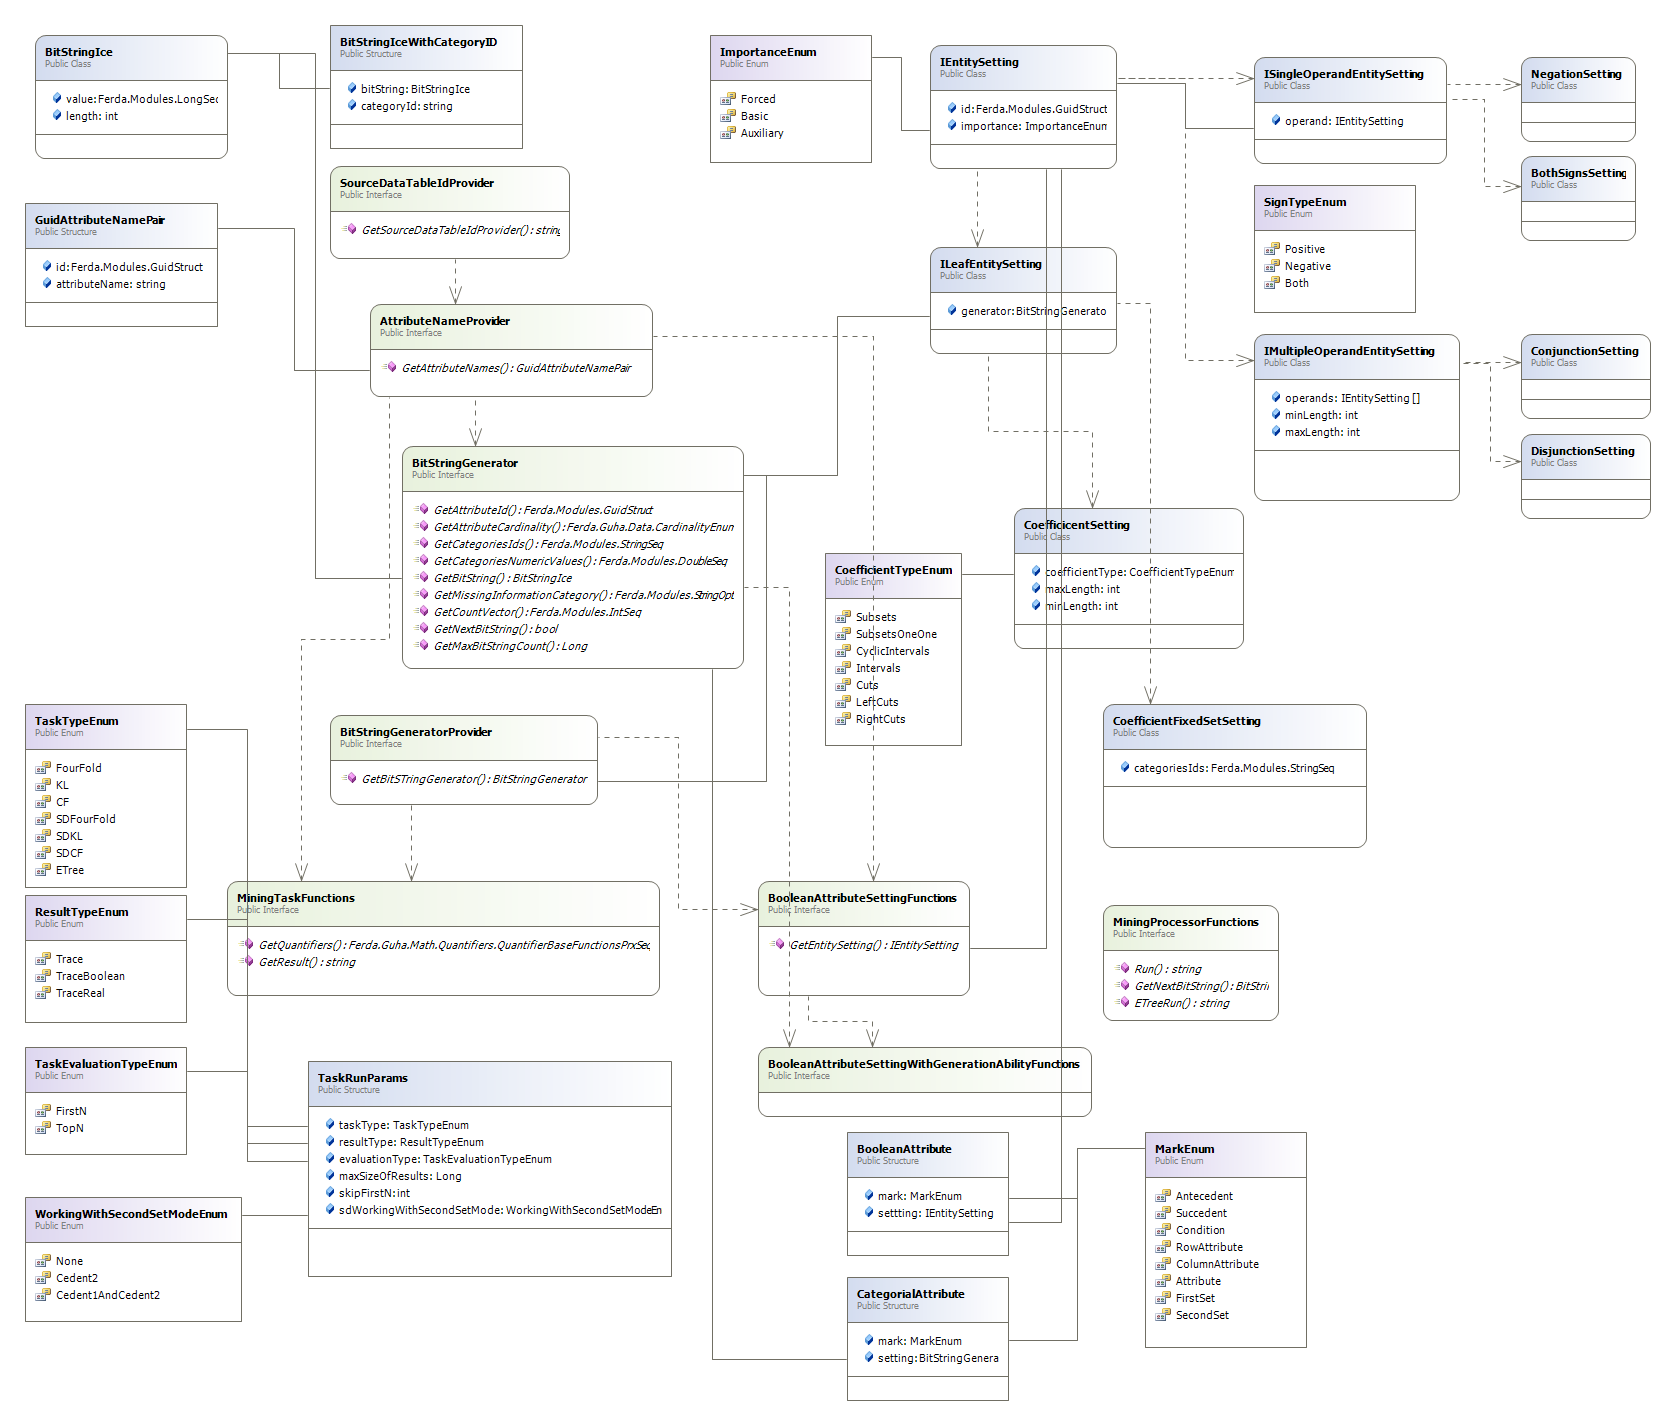
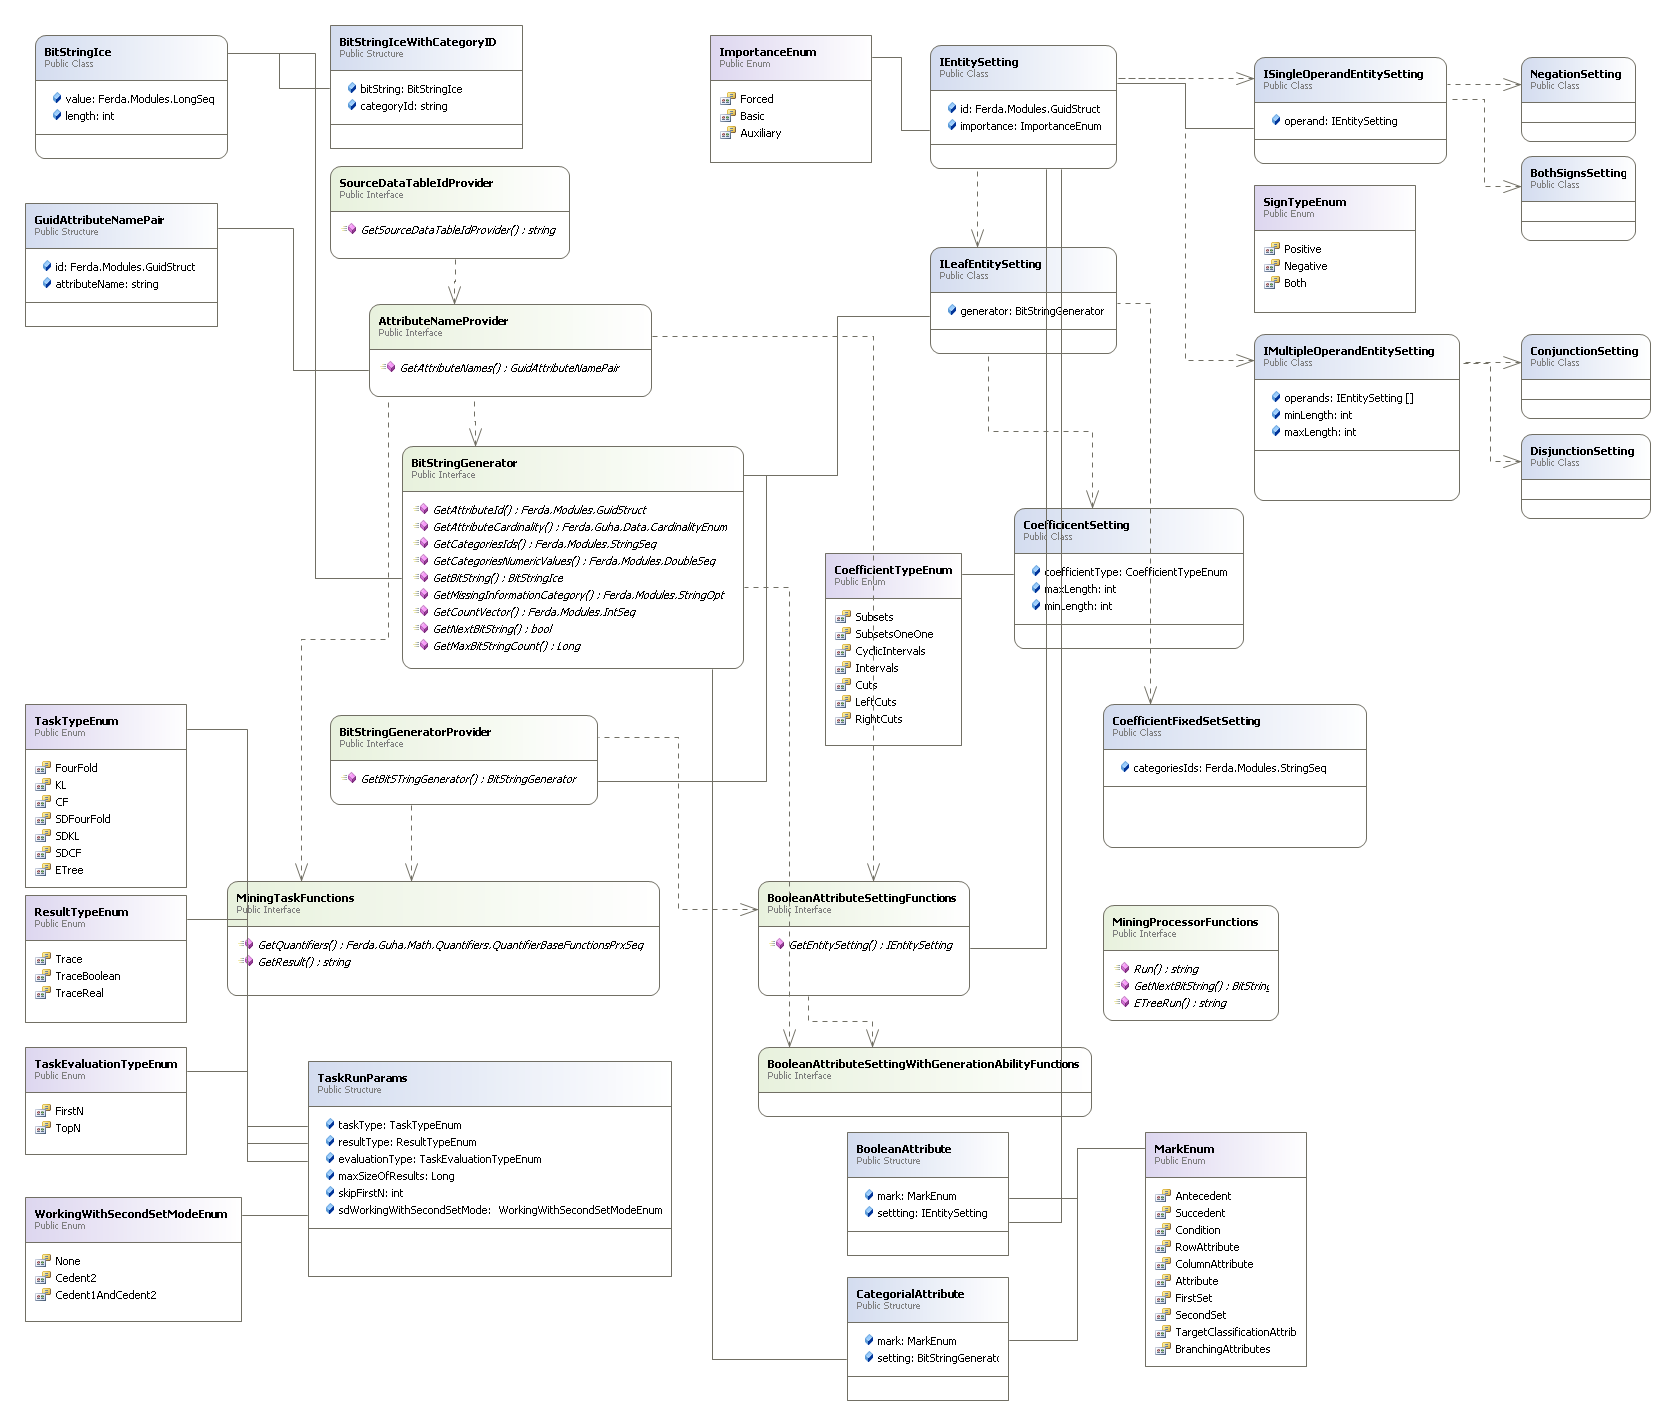
ETree miner progress - the box works, MiningProcessor interface has a new function for running ETree tasks, there is some work done on the ETreeMiningProcessor, but still incomplete.

diff --git a/ferda/src/Modules/BoxModulesServices/GuhaMining/Tasks/ETree/Functions.cs b/ferda/src/Modules/BoxModulesServices/GuhaMining/Tasks/ETree/Functions.cs
@@ -89,6 +89,17 @@ namespace Ferda.Modules.Boxes.GuhaMining.Tasks.ETree
             }
         }
 
+        /// <summary>
+        /// Number of branching categories
+        /// </summary>
+        public int NoBranchingCategories
+        {
+            get
+            {
+                return _boxModule.GetPropertyInt(SockNoBranchingCategories);
+            }
+        }
+
         #endregion
 
         /// <summary>
@@ -122,6 +133,11 @@ namespace Ferda.Modules.Boxes.GuhaMining.Tasks.ETree
         /// Name of the socket defining maximal tree depth
         /// </summary>
         public const string SockMaximalTreeDepth = "MaximalTreeDepth";
+
+        /// <summary>
+        /// Name of the socket defining number of branching categories
+        /// </summary>
+        public const string SockNoBranchingCategories = "NoBranchingCategories";
 
         #region MiningTaskFunctions overrides
 
@@ -271,8 +287,14 @@ namespace Ferda.Modules.Boxes.GuhaMining.Tasks.ETree
                 Common.GetBitStringGeneratorProviderPrx(_boxModule);
 
             //retrieving and checking the quantifiers
+            //because of other name of the socket that contain quantifiers,
+            //we cannot use Common.GetQuantifierBaseFunctions
             List<QuantifierBaseFunctionsPrx> quantifiers = 
-                Common.GetQuantifierBaseFunctions(_boxModule, true);
+                SocketConnections.GetPrxs<QuantifierBaseFunctionsPrx>(
+                _boxModule, 
+                SockQuantifiers,
+                QuantifierBaseFunctionsPrxHelper.checkedCast,
+                true, true);
             if (quantifiers == null || quantifiers.Count == 0)
             {
                 throw Exceptions.BadValueError(null, _boxModule.StringIceIdentity,
@@ -289,8 +311,31 @@ namespace Ferda.Modules.Boxes.GuhaMining.Tasks.ETree
                 Common.GetCategorialAttributesBySockets(_boxModule,
                     new string[] { SockTargetClassificationAttribute }, this)[0];
 
-            //string result =  + progress bar
+            if (classificationAttribute == null)
+            {
+                throw Exceptions.NoConnectionInSocketError(null, _boxModule.StringIceIdentity,
+                    new string[] { SockTargetClassificationAttribute });
+            }
+            if (branchingAttributes.Length == 0)
+            {
+                throw Exceptions.NoConnectionInSocketError(null, _boxModule.StringIceIdentity,
+                    new string[] { SockBranchingAttributes });
+            }
 
+            string resultInfo = string.Empty;
+            string result = miningProcessor.ETreeRun(
+                _boxModule.MyProxy,
+                branchingAttributes,
+                classificationAttribute,
+                quantifiers.ToArray(),
+                MinimalNodeImpurity,
+                MinimalNodeFrequency,
+                MaximalTreeDepth,
+                NoBranchingCategories,
+                _boxModule.Output,
+                out resultInfo);
+
+            //processing of the results
         }
     }
 }

diff --git a/ferda/src/Modules/Core/MiningProcessor/Design/MiningProcessorFunctions.cs b/ferda/src/Modules/Core/MiningProcessor/Design/MiningProcessorFunctions.cs
@@ -106,6 +106,9 @@ namespace Ferda.Guha.MiningProcessor.Design
         /// <param name="minimalNodeImpurity">Minimal node impurity</param>
         /// <param name="minimalNodeFrequency">Minimal node frequency</param>
         /// <param name="maximalTreeDepth">Maximal tree depth</param>
+        /// <param name="noBranchingCategories">
+        /// Number of categories for branching of one attribute
+        /// </param>
         /// <param name="output">Where the progress of the task should be written</param>
         /// <param name="resultInfo">Information about the task run are stored
         /// in this parameter</param>
@@ -113,14 +116,15 @@ namespace Ferda.Guha.MiningProcessor.Design
         /// generated trees</param>
         /// <param name="current__">Ice stuff</param>
         /// <returns>Decision trees serialized to a string</returns>        
-        string ETreeRun(BoxModulePrx taskBoxModule, 
-            CategorialAttribute[] branchingAttributes, 
+        string ETreeRun(BoxModulePrx taskBoxModule,
+            CategorialAttribute[] branchingAttributes,
             CategorialAttribute targetClassificationAttribute,
-            QuantifierBaseFunctionsPrx[] quantifiers, 
-            int minimalNodeImpurity, 
-            int minimalNodeFrequency, 
-            int maximalTreeDepth, 
-            OutputPrx output, 
-            out string resultInfo, Current current__)
+            QuantifierBaseFunctionsPrx[] quantifiers,
+            int minimalNodeImpurity,
+            int minimalNodeFrequency,
+            int maximalTreeDepth,
+            int noBranchingCategories,
+            OutputPrx output,
+            out string resultInfo, Current current__);
     }
 }

diff --git a/ferda/src/Modules/BoxModulesServices/GuhaMining/VirtualAttributes/VirtualFFTBooleanAttribute/Functions.cs b/ferda/src/Modules/BoxModulesServices/GuhaMining/VirtualAttributes/VirtualFFTBooleanAttribute/Functions.cs
@@ -27,7 +27,7 @@ namespace Ferda.Modules.Boxes.GuhaMining.VirtualAttributes.VirtualFFTBooleanAttr
             throw new Exception("The method or operation is not implemented.");
         }
 
-        public override string ETreeRun(BoxModulePrx taskBoxModule, CategorialAttribute[] branchingAttributes, CategorialAttribute targetClassificationAttribute, Ferda.Guha.Math.Quantifiers.QuantifierBaseFunctionsPrx[] quantifiers, int minimalNodeImpurity, int minimalNodeFrequency, int maximalTreeDepth, Ferda.ModulesManager.OutputPrx output, out string resultInfo, Current current__)
+        public override string ETreeRun(BoxModulePrx taskBoxModule, CategorialAttribute[] branchingAttributes, CategorialAttribute targetClassificationAttribute, Ferda.Guha.Math.Quantifiers.QuantifierBaseFunctionsPrx[] quantifiers, int minimalNodeImpurity, int minimalNodeFrequency, int maximalTreeDepth, int noBranchingCategories, Ferda.ModulesManager.OutputPrx output, out string resultInfo, Current current__)
         {
             throw new Exception("The method or operation is not implemented.");
         }

diff --git a/ferda/src/Modules/BoxModulesServices/GuhaMining/VirtualAttributes/VirtualSDFFTBooleanAttribute/Functions.cs b/ferda/src/Modules/BoxModulesServices/GuhaMining/VirtualAttributes/VirtualSDFFTBooleanAttribute/Functions.cs
@@ -27,7 +27,7 @@ namespace Ferda.Modules.Boxes.GuhaMining.VirtualAttributes.VirtualSDFFTBooleanAt
             throw new Exception("The method or operation is not implemented.");
         }
 
-        public override string ETreeRun(BoxModulePrx taskBoxModule, CategorialAttribute[] branchingAttributes, CategorialAttribute targetClassificationAttribute, Ferda.Guha.Math.Quantifiers.QuantifierBaseFunctionsPrx[] quantifiers, int minimalNodeImpurity, int minimalNodeFrequency, int maximalTreeDepth, Ferda.ModulesManager.OutputPrx output, out string resultInfo, Current current__)
+        public override string ETreeRun(BoxModulePrx taskBoxModule, CategorialAttribute[] branchingAttributes, CategorialAttribute targetClassificationAttribute, Ferda.Guha.Math.Quantifiers.QuantifierBaseFunctionsPrx[] quantifiers, int minimalNodeImpurity, int minimalNodeFrequency, int maximalTreeDepth, int noBranchingCategories, Ferda.ModulesManager.OutputPrx output, out string resultInfo, Current current__)
         {
             throw new Exception("The method or operation is not implemented.");
         }

diff --git a/ferda/src/Modules/Core/MiningProcessor/Miners/MiningProcessorFunctionsI.cs b/ferda/src/Modules/Core/MiningProcessor/Miners/MiningProcessorFunctionsI.cs
@@ -369,6 +369,9 @@ namespace Ferda.Guha.MiningProcessor.Miners
         /// <param name="minimalNodeImpurity">Minimal node impurity</param>
         /// <param name="minimalNodeFrequency">Minimal node frequency</param>
         /// <param name="maximalTreeDepth">Maximal tree depth</param>
+        /// <param name="noBranchingCategories">
+        /// Number of categories for branching of one attribute
+        /// </param>
         /// <param name="output">Where the progress of the task should be written</param>
         /// <param name="resultInfo">Information about the task run are stored
         /// in this parameter</param>
@@ -383,9 +386,11 @@ namespace Ferda.Guha.MiningProcessor.Miners
             int minimalNodeImpurity, 
             int minimalNodeFrequency, 
             int maximalTreeDepth, 
+            int noBranchingCategories,
             OutputPrx output, 
             out string resultInfo, Current current__)
         {
+
             resultInfo = string.Empty;
             return string.Empty;
         }

diff --git a/ferda/src/Modules/Core/MiningProcessor/Design/MarkEnum.cs b/ferda/src/Modules/Core/MiningProcessor/Design/MarkEnum.cs
@@ -26,7 +26,11 @@ using System.Text;
 namespace Ferda.Guha.MiningProcessor.Design
 {
     /// <summary>
-    /// Role of the attribute (Boolean or categorial) in the task.
+    /// Role of the attribute (Boolean or categorial) in the task. In adition to the
+    /// normal GUHA tasks, for ETree defines the BranchingAttribute and 
+    /// TargetClassificationAttribute mark types. These types are not used in the
+    /// mining algorithm itself, they are used just for the compatibility with
+    /// the rest of mining processor.
     /// </summary>
     /// <remarks>
     /// The original slice design can be found in 
@@ -46,6 +50,8 @@ namespace Ferda.Guha.MiningProcessor.Design
         ColumnAttribute,
         Attribute,
         FirstSet,
-        SecondSet
+        SecondSet,
+        TargetClassificationAttribute,
+        BranchingAttributes
     }
 }

diff --git a/ferda/src/Modules/Core/MiningProcessor/Exceptions.cs b/ferda/src/Modules/Core/MiningProcessor/Exceptions.cs
@@ -79,5 +79,18 @@ namespace Ferda.Guha.MiningProcessor
             result.userMessage = "Empty cedent (or with MinLength equal to zero) is not allowed for cedent type: " + cedentType.ToString();
             return result;
         }
+
+        /// <summary>
+        /// Returns an error saying that given algorithm parameter should be greater than zero.
+        /// The exception is used for ETree mining
+        /// </summary>
+        /// <param name="algorithmParameter">Algorithm parameter</param>
+        /// <returns>Exception</returns>
+        public static BoxRuntimeError NotMoreThanZeroException(string algorithmParameter)
+        {
+            BoxRuntimeError result = new BoxRuntimeError();
+            result.userMessage = "Parameter " + algorithmParameter + "should be always greater than zero.";
+            return result;
+        }
     }
 }

diff --git a/ferda/src/Modules/BoxModulesServices/GuhaMining/Tasks/Common.cs b/ferda/src/Modules/BoxModulesServices/GuhaMining/Tasks/Common.cs
@@ -170,6 +170,10 @@ namespace Ferda.Modules.Boxes.GuhaMining.Tasks
                     return MarkEnum.FirstSet;
                 case SockSDCedent2:
                     return MarkEnum.SecondSet;
+                case ETree.Functions.SockBranchingAttributes:
+                    return MarkEnum.BranchingAttributes;
+                case ETree.Functions.SockTargetClassificationAttribute:
+                    return MarkEnum.TargetClassificationAttribute;
                 default:
                     throw new NotImplementedException();
             }

diff --git a/ferda/src/Modules/BoxModulesServices/GuhaMining/Tasks/ETree/BoxInfo.cs b/ferda/src/Modules/BoxModulesServices/GuhaMining/Tasks/ETree/BoxInfo.cs
@@ -142,8 +142,8 @@ namespace Ferda.Modules.Boxes.GuhaMining.Tasks.ETree
         /// <param name="boxModule">box instance to be validated</param>
         public override void Validate(BoxModuleI boxModule)
         {
-            Functions Func = (Functions)boxModule.FunctionsIObj;
-            Func.GetSourceDataTableId();
+            //Does nothing, all validation is done either via numerical restrictions
+            //in boxes.xml or when a task is run
         }
 
         #region Type Identifier
